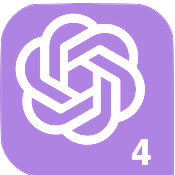
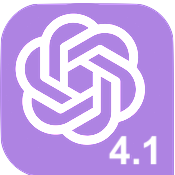
Hotfixes applied directly in production: updated GPT image, notification center

Changed region(s): [[0.6, 0.7714, 0.9143, 0.9429]]

diff --git a/staticpages/notification_center.html b/staticpages/notification_center.html
@@ -1,10 +1,11 @@
 <div class="notification_center">
   <h3>What's New</h3>
-
+<strong>New Models</strong>
+<p>NHLBI Chat now supports o3 (the latest reasoning model), o4-mini (the fastest reasoning model), and GPT-4.1 (technical model excelling in instruction following and coding).</p>
 <strong>CSV and XLSX Upload</strong>
 <p>NHLBI Chat now allows you to upload csv and xlsx document types. </p>
 <strong>Multi-Document Upload</strong>
 <p>NHLBI Chat now allows you to upload two documents per chat. The file upload button can now be found in the chat box. Uploaded documents appear under the chat's title in the chat list and can be deleted there.</p>
-<strong>New Model: o3-mini Enabled</strong>
-<p>The OpenAI o3-mini model is now available in the model dropdown selector. With training data ending October, 2023 and a 100,000 token context window, o3-mini delivers high accuracy and contextual awareness, making it a powerful option for a wide range of applications. Note that o3-mini does not work with uploaded images. Other documents will work with this model.</p>
+<strong>New Model Selector</strong>
+<p>The model selector is now a button under the text box that displays your active model. Clicking the button provides detailed descriptions of all models available in NHLBI Chat.</p>
 </div>

diff --git a/staticpages/model_text.php b/staticpages/model_text.php
@@ -17,7 +17,7 @@
 foreach ($models as $m => $modelconfig) {
     if (empty($modelconfig['enabled'])) continue;
     $label = $modelconfig['label'];
-    $tooltip = $modelconfig['tooltip'];
+    $tooltip = trim($modelconfig['tooltip']);
     $checked = ($m == $_SESSION['deployment']) ? 'true' : 'false';
     $handles_images = !empty($modelconfig['handles_images']) ? 'true' : 'false';
     $handles_documents = !empty($modelconfig['handles_documents']) ? 'true' : 'false';
@@ -38,7 +38,7 @@ foreach ($models as $m => $modelconfig) {
                 role="radio"
                 aria-checked="'.$checked.'">
             <h5>'.$label.' '.$disabled_note.'</h5>
-            <p>'.$tooltip.'</p>
+            '.$tooltip.'
         </button>
     '."\n";
 }
@@ -92,7 +92,15 @@ foreach ($models as $m => $modelconfig) {
     font-weight: 600;
 }
 
-.model-option p {
+.model-option ul {
+    margin-bottom: 0px;
+  display: flex;
+  gap: 1.5em;
+  list-style: disc inside;
+  padding: 0;
+  margin: 0;
+}
+.model-option p, .model-option li {
     margin: 0;
     font-size: 0.9rem;
     color: #475569;

diff --git a/lib.required.php b/lib.required.php
@@ -465,7 +465,7 @@ function call_azure_api($active_config, $chat_id, $msg) {
     } else {
         // Chat Completion Endpoint
         $url = $active_config['base_url'] . "/openai/deployments/" . $active_config['deployment_name'] . "/chat/completions?api-version=" . $active_config['api_version'];
-        $top_p = (preg_match('/o1|o3/',$_SESSION['deployment'])) ? 1 : 0.95;
+        $top_p = (preg_match('/o1|o3|o4/',$_SESSION['deployment'])) ? 1 : 0.95;
         
         $payload = [
             'messages' => $msg,
@@ -568,6 +568,7 @@ function process_api_response($response, $active_config, $chat_id, $message, $ms
 
     // Handle Chat Completion response
     $response_text = $response_data['choices'][0]['message']['content'] ?? 'No response text found.';
+    if (empty($custom_config['workflowId'])) $custom_config['workflowId'] = '';
     $eid = create_exchange($chat_id, $message, $response_text, $custom_config['workflowId']);
 
     return [
